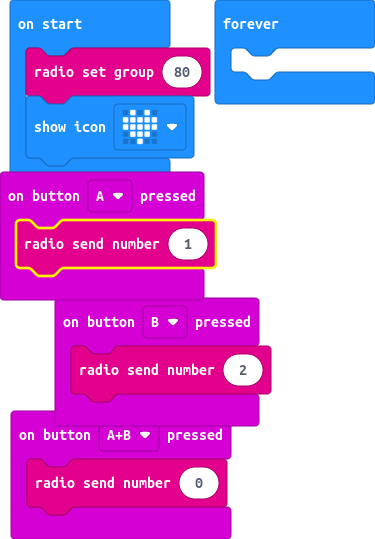
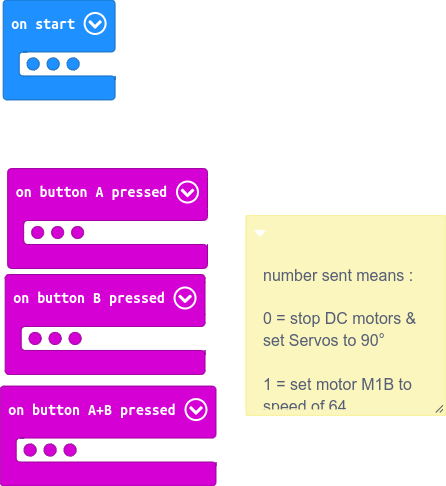
Update main.blocks, main.ts

diff --git a/main.ts b/main.ts
@@ -1,3 +1,12 @@
+/**
+ * number sent means :
+ * 
+ * 0 = stop DC motors & set Servos to 90°
+ * 
+ * 1 = set motor M1B to speed of 64
+ * 
+ * 2 = set servo1 & servo 8 to random posistions
+ */
 input.onButtonPressed(Button.A, function () {
     radio.sendNumber(1)
 })
@@ -9,6 +18,3 @@ input.onButtonPressed(Button.B, function () {
 })
 radio.setGroup(80)
 basic.showIcon(IconNames.Heart)
-basic.forever(function () {
-	
-})
